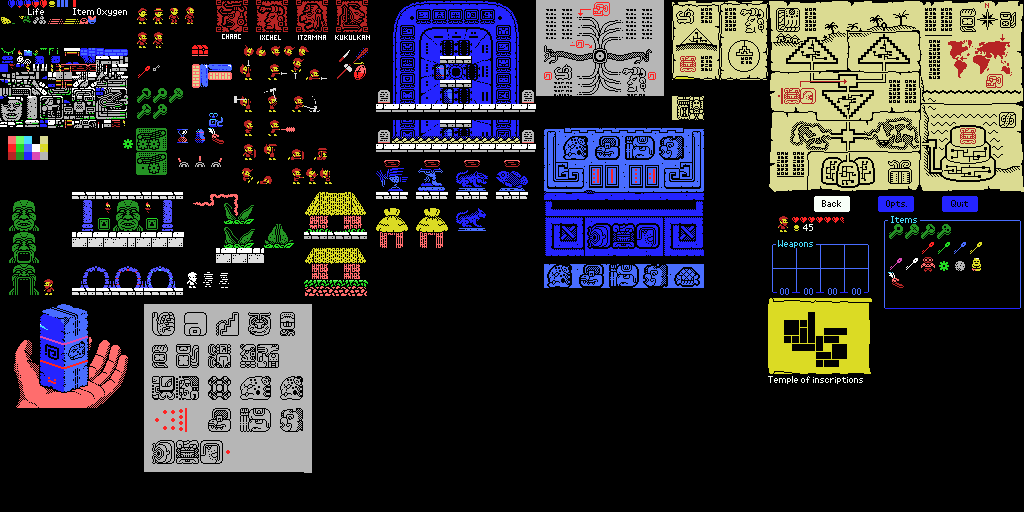
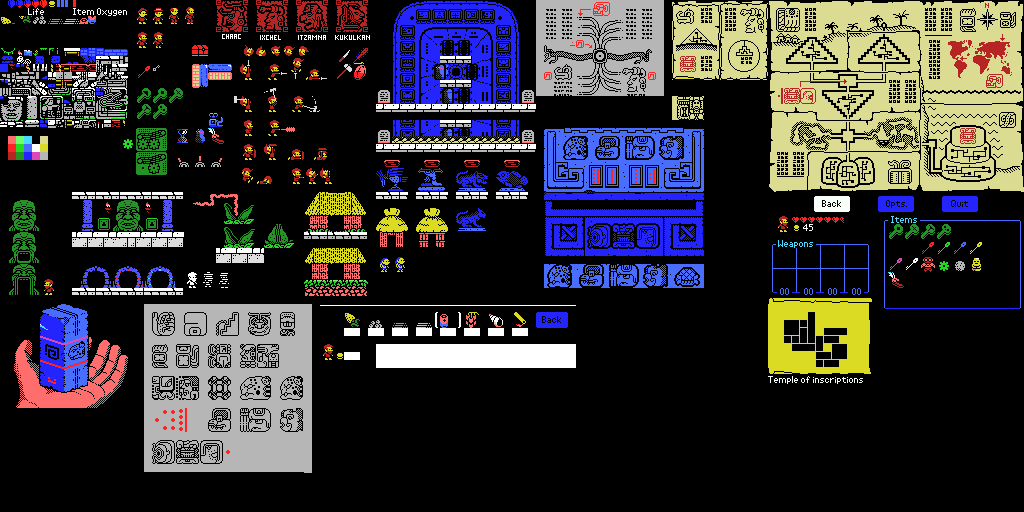
started working on the shop

Changed region(s): [[0.3125, 0.5938, 0.5625, 0.7188], [0.4062, 0.4375, 0.4375, 0.5], [0.375, 0.5, 0.4062, 0.5312]]

diff --git a/java/src/pcg/World.java b/java/src/pcg/World.java
@@ -245,4 +245,43 @@ public class World {
         return new Color((float)r*factor, (float)g*factor, (float)b*factor);
     }
     
+    
+    public List<String> getUnspawnedItemTags()
+    {
+        String candidates[] = {
+            "WEAPON_HAMMER",
+            "WEAPON_MACUAHUITL",
+            "WEAPON_SHIELD",
+            "WEAPON_SLING",
+            "WEAPON_BLOWGUN",
+            "WEAPON_ATLATL",
+            "WEAPON_RAYGUN",
+            "WEAPON_OBSIDIAN_KNIVE",
+            "WEAPON_FIRE_HAMMER",
+            "WEAPON_ICE_MACUAHUITL",
+            "item-sandals",
+            "item-gloves",
+            "item-warrior-hat",
+            "item-armor",
+            "item-chaac",
+            "item-seashell",
+            "item-belt",
+            "item-ice-cape",
+        };
+        
+        List<String> notSpawned = new ArrayList<>();
+        
+        for(String candidate:candidates) {
+            List<AreaPoint> l = findTagLocations(candidate);
+            if (l != null && !l.isEmpty()) {
+                continue;
+            }
+            if (withinChestTag.contains(candidate)) {
+                continue;
+            }
+            notSpawned.add(candidate);
+        }
+        
+        return notSpawned;
+    }
 }

diff --git a/java/src/pcg/PCGWorld.java b/java/src/pcg/PCGWorld.java
@@ -913,6 +913,7 @@ public class PCGWorld {
                     n_small_keys++;
                     addTag(p, "small-key-chest" + n_small_keys, d);
                     w.chestContent.put("small-key-chest" + n_small_keys, weaponTags[i]);
+                    w.withinChestTag.add(weaponTags[i]);
                 } else {
                     addTag(p, weaponTags[i], d);
                 }
@@ -948,6 +949,7 @@ public class PCGWorld {
                     n_small_keys++;
                     addTag(p, "small-key-chest" + n_small_keys, d);
                     w.chestContent.put("small-key-chest" + n_small_keys, "heart" + (i+1));
+                    w.withinChestTag.add("heart" + (i+1));
                 } else {
                     addTag(p, "heart" + (i+1), d);
                 }
@@ -997,6 +999,7 @@ public class PCGWorld {
                     n_small_keys++;
                     addTag(p, "small-key-chest" + n_small_keys, d);
                     w.chestContent.put("small-key-chest" + n_small_keys, optionalItemTags[i]);
+                    w.withinChestTag.add(optionalItemTags[i]);
                 } else {
                     addTag(p, optionalItemTags[i], d);
                 }

diff --git a/java/src/test/HardcodedWorldForAssembler.java b/java/src/test/HardcodedWorldForAssembler.java
@@ -4,6 +4,7 @@
  */
 package test;
 
+import java.util.ArrayList;
 import java.util.List;
 import pcg.Area;
 import pcg.InterAreaConnection;
@@ -148,6 +149,24 @@ public class HardcodedWorldForAssembler {
                                      w.powerStoneNumbers[2] + ", " +
                                      w.powerStoneNumbers[3] + ", " +
                                      w.powerStoneNumbers[4]);
+        List<String> itemsForShop = new ArrayList<>();
+        List<String> notSpawned = w.getUnspawnedItemTags();
+        if (notSpawned.contains("WEAPON_BLOWGUN")) {
+            itemsForShop.add(AssemblerTags.tagToAssembler("WEAPON_BLOWGUN"));
+            notSpawned.remove("WEAPON_BLOWGUN");
+        }
+        while(!notSpawned.isEmpty() && itemsForShop.size()<2) {
+            itemsForShop.add(notSpawned.get(0));
+            notSpawned.remove(0);
+        }
+        System.out.println("hardcoded_world_data__shop_extra_items:");
+        for(int i = 0;i<2;i++) {
+            String tag = "0";
+            if (itemsForShop.size() > i) {
+                tag = itemsForShop.get(i);
+            }
+            System.out.println("  db " + tag);
+        }
     }
     
     

diff --git a/java/src/xspelunker2/GenerateTiles.java b/java/src/xspelunker2/GenerateTiles.java
@@ -34,6 +34,7 @@ public class GenerateTiles {
         extractTilesBigObjects("data/objects.png", "src/autogenerated/tiles-large-objects");
         extractPowerStoneTiles("data/power-stone-tiles.png", "data/power-stone-1.tmx", "src/autogenerated/power-stone");
         extractTiles("data/tablet-maya-tiles.png", "src/autogenerated/tablet-maya-tiles", 0, 12*8);
+        extractTiles("data/shop-tiles.png", "src/autogenerated/shop-tiles", 0, 16*8);
         
         Pair<BufferedImage,int[][]> tmp = Map.extractUniqueTiles("data/puzzlebox.png", "data/puzzlebox-tiles-unique.png", 0, 21);
         extractAllTiles("data/puzzlebox-tiles-unique.png", "src/autogenerated/puzzlebox-tiles");

diff --git a/java/src/xspelunker2/Music.java b/java/src/xspelunker2/Music.java
@@ -38,7 +38,12 @@ public class Music {
     
     public static void main(String args[]) throws Exception
     {        
-        playTSVMusic("data/music/jungle1.tsv", 6, 12);  // Variation on the original Jungle XSpelunker song
+//        playTSVMusic("data/music/jungle1.tsv", 6, 12);  // Variation on the original Jungle XSpelunker song
+        playTSVMusic("data/music/jungle1a.tsv", 6, 12);  // variation on the bass line
+        /*
+        to do:
+        - the second part of jungle1/jungle1a is terrible. Find a better second part.
+        */
     }
 
 

diff --git a/java/src/pcg/AssemblerTags.java b/java/src/pcg/AssemblerTags.java
@@ -202,6 +202,8 @@ public class AssemblerTags {
         "TAG_ENEMY_BEE_HIVE",
         "TAG_ENEMY_ANT_COLONY",
         "TAG_NPC_SHOPKEEPER",
+        "TAG_NPC_SHOP",
+        "TAG_DYNAMITE",
     };
     
 
